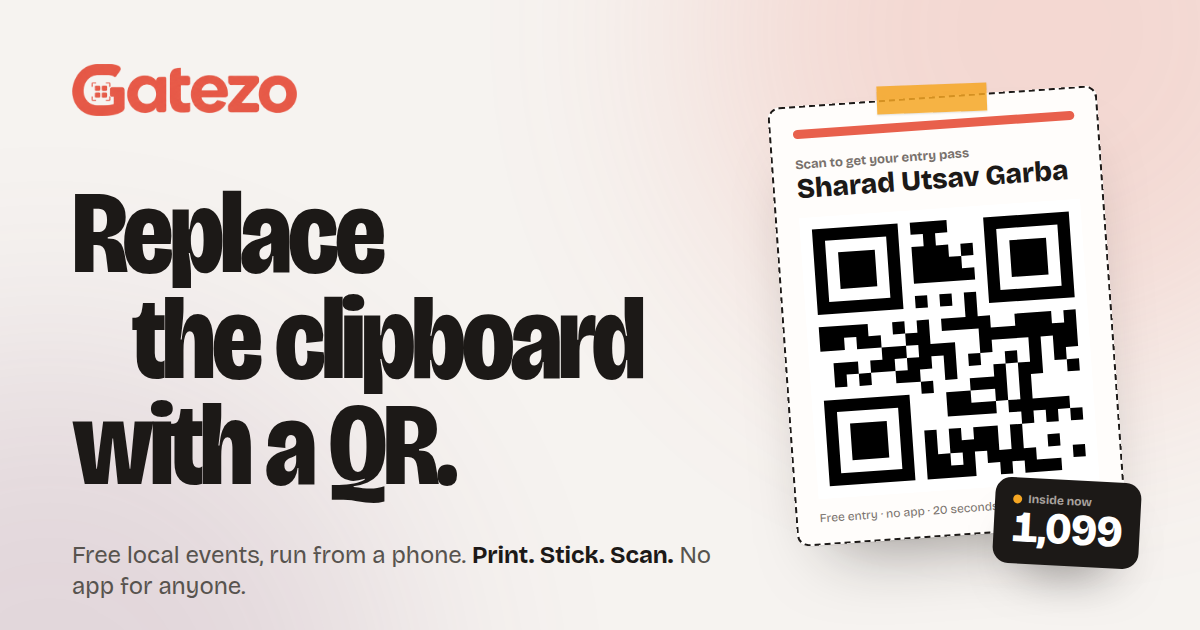
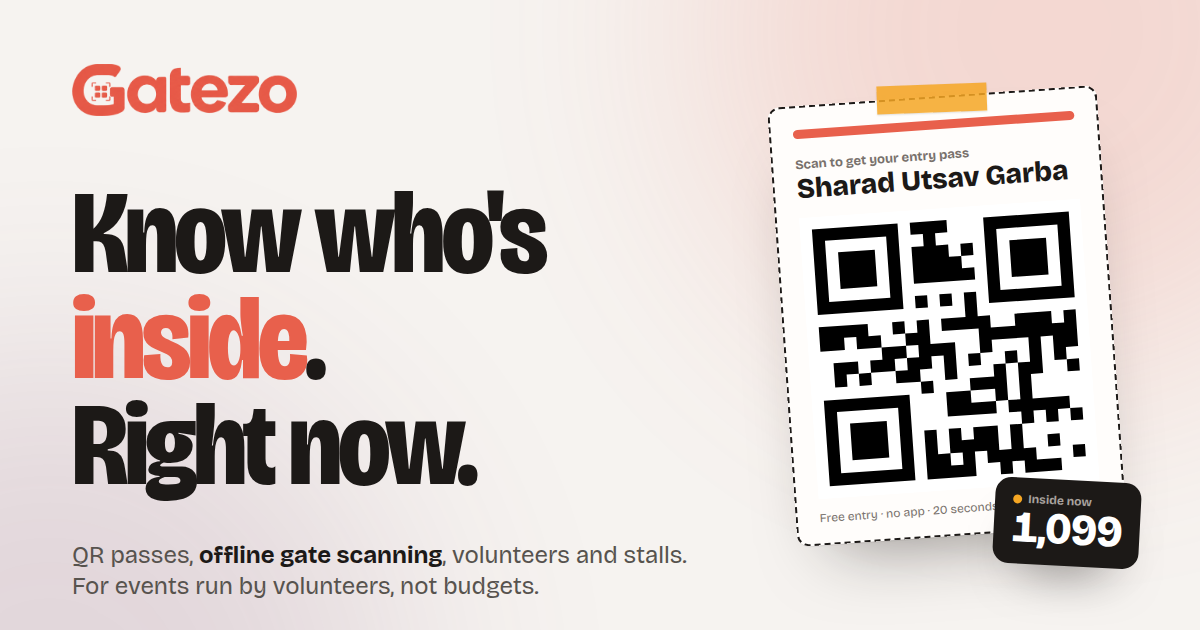
Link-preview card: "Know who's inside. Right now."

Changed region(s): [[0.0617, 0.3016, 0.555, 0.8143], [0.0617, 0.8444, 0.5858, 0.9651]]

diff --git a/resources/og/index.html b/resources/og/index.html
@@ -15,7 +15,8 @@
   .glow.p { background:var(--plum); left:-300px; bottom:-420px; opacity:.14; }
   .logo { position:absolute; left:72px; top:64px; height:52px; }
   h1 { position:absolute; left:72px; top:180px; width:640px; font-weight:800; font-stretch:82%; letter-spacing:-.035em; line-height:.9; font-size:118px; }
-  h1 .in { padding-left:60px; display:block; }
+  h1 span { display:block; }
+  h1 .hl { color:var(--coral); }
   .sub { position:absolute; left:72px; top:540px; width:640px; font-size:24px; color:#57534E; line-height:1.3; }
   .sub b { color:var(--ink); font-weight:700; }
   .poster { position:absolute; right:88px; top:96px; width:330px; padding:22px 22px 18px; background:var(--paper); border:2px dashed var(--ink); border-radius:12px; transform:rotate(-4deg);
@@ -36,8 +37,8 @@
 <body>
   <div class="glow c"></div><div class="glow p"></div>
   <img class="logo" src="../../public/brand/logo.png" alt="Gatezo">
-  <h1>Replace<span class="in">the clipboard</span>with a QR.</h1>
-  <p class="sub">Free local events, run from a phone. <b>Print. Stick. Scan.</b> No app for anyone.</p>
+  <h1><span>Know who's</span><span><span class="hl" style="display:inline">inside</span>.</span><span>Right now.</span></h1>
+  <p class="sub">QR passes, <b>offline gate scanning</b>, volunteers and stalls. For events run by volunteers, not budgets.</p>
   <div class="poster">
     <span class="tape"></span>
     <div class="stripe"></div>
